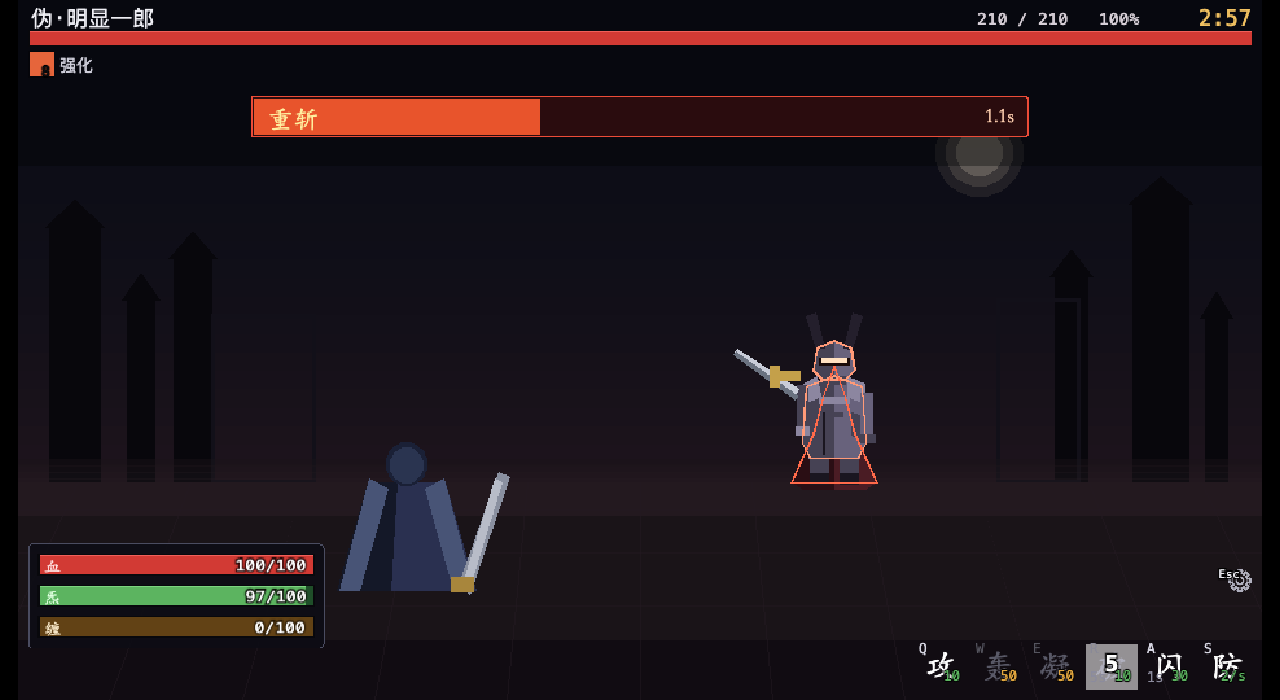
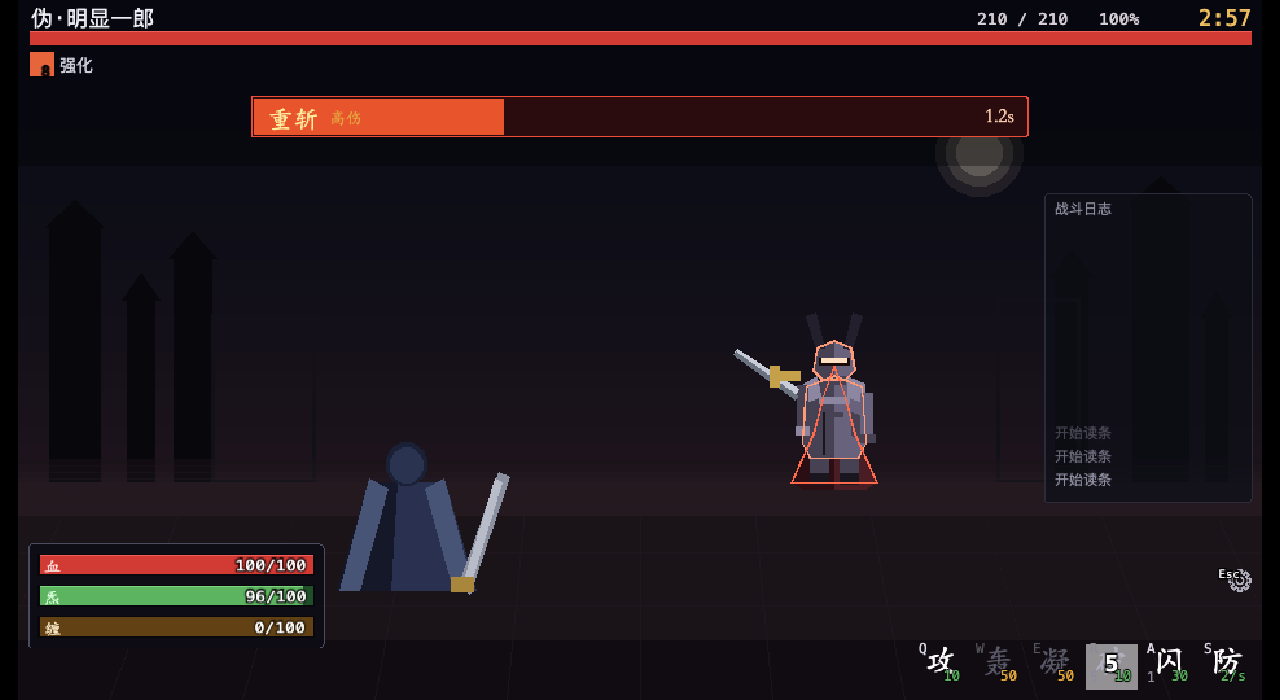
fix(ui): 技能图标恢复光学居中；去掉 CD 的单位 s
三条需求。

【1. 图标不居中 —— 我把光学补偿删错了】
上一轮我删掉了 `GLYPH_BASELINE_NUDGE`，理由是"四角都占满了，
图标必须老实居中"。**那是错的。**

Pixi 的 `Text` 按**整行高**居中，而 CJK 字形重心明显低于行框中心：
26px 楷体行框 28px、字形只有约 20.5px 且偏下。所以"数学居中"
看起来就是**坐得太低**。

实测（26px 楷体、40px 格子）：
  修前 字形 y 498..526（格子 492..532）—— 下边缘几乎贴底
  修后 字形 y 494..522 —— 视觉居中
新名 `GLYPH_NUDGE = 4`，注释里写清了它是算出来再校准的，不是手感。

【2. CD 的单位 s 不显示】
需求："cd 的单位's'，不要显示出来"。
我原先给**固有**冷却加了 `s`，理由是"它是规格说明而不是剩余量，
有单位才不会被误读"。已按需求去掉 —— 位置（左下）与字号（tiny）
已经足够区分它与中间那个实时数字。
现在两个 CD 都只有数字；实测格子里只剩 `2/s`（那是按住技的
"每秒代价"，不是 CD 单位）。

【3. 实时 CD 在图标上层】
核实结果：**它本来就在最上层**（`addRoot` 顺序里 `cd.root` 最后）。
放大截图确认：`破` 冷却时中间的大 `5` 完整可见、压在图标之上。
之前"被盖住一部分"的观感，猜测与图标偏下有关 —— 图标上移后
两者的相对位置也变清楚了。如果仍然觉得被压，告诉我具体哪个格子。

【测试同步】
- "图标在正中" → "**水平**正中；纵向做光学补偿"，并断言补偿量在 (0,6]
- "实时只给数字、固有带单位" → "**两者都只给数字**"

509 测试 + lint + typecheck + build + CDP 端到端全过。

diff --git a/tests/unit/scaling.test.ts b/tests/unit/scaling.test.ts
@@ -6,7 +6,7 @@ import {
   computeCanvasCssSize,
   computeScale,
 } from '../../src/render/scaling';
-import { FONT, LAYOUT, LOGICAL, skillSlotLabels, skillSlotRect } from '../../src/ui/layout';
+import { FONT, GLYPH_NUDGE, LAYOUT, LOGICAL, skillSlotLabels, skillSlotRect } from '../../src/ui/layout';
 
 describe('逻辑分辨率常量', () => {
   it('是 960x540 且为 16:9', () => {
@@ -371,11 +371,21 @@ describe('技能格四角布局', () => {
     expect(pos.cooldown.y).toBeCloseTo(r.y + r.h / 2, 5);
   });
 
-  it('图标在正中', () => {
+  it('图标**水平**正中；纵向做光学补偿', () => {
+    /**
+     * ⚠ 纵向**故意**不是几何中心。
+     *
+     * Pixi 的 `Text` 按整行高居中，而 CJK 字形重心偏低（26px 楷体：
+     * 行框 28px、字形约 20.5px 且偏下），所以几何居中看起来"坐得太低"。
+     * 上移 `GLYPH_NUDGE` 才是视觉居中。
+     */
     const r = rect();
     const pos = skillSlotLabels(r);
     expect(pos.glyph.x).toBeCloseTo(r.x + r.w / 2, 5);
-    expect(pos.glyph.y).toBeCloseTo(r.y + r.h / 2, 5);
+    expect(pos.glyph.y).toBeCloseTo(r.y + r.h / 2 - GLYPH_NUDGE, 5);
+    // 补偿量必须是个小正数：太大就会撞到上边缘的按键提示
+    expect(GLYPH_NUDGE).toBeGreaterThan(0);
+    expect(GLYPH_NUDGE).toBeLessThanOrEqual(6);
   });
 
   it('代价只给数字 + 可选后缀，不拼资源名（角落放不下"30炁"）', async () => {
@@ -385,12 +395,17 @@ describe('技能格四角布局', () => {
     expect(src).toMatch(/s\.cost\.set\(`\$\{Math\.round\(view\.cost\.value\)\}\$\{view\.cost\.suffix \?\? ''\}`\)/);
   });
 
-  it('**实时**冷却只给数字；**固有**冷却带单位', async () => {
+  it('两个 CD 都只给数字 —— 单位一律不显示', async () => {
     const { readFileSync } = await import('node:fs');
     const src = readFileSync(new URL('../../src/render/BattleScene.ts', import.meta.url), 'utf8');
-    // 实时："4"（不给单位，格子太小）
+    // 实时："4"
     expect(src).toMatch(/s\.cd\.set\(view\.cooldownRatio > 0\.001 \? Math\.ceil\(view\.cooldownSec\)\.toString\(\) : ''\)/);
-    // 固有："30s"（给单位，它是规格说明而不是剩余量）
-    expect(src).toMatch(/s\.skillCd\.set\(view\.skillCdSec > 0 \? `\$\{Math\.round\(view\.skillCdSec\)\}s` : ''\)/);
+    /**
+     * 固有：也只有数字（需求："cd 的单位's'，不要显示出来"）。
+     * 我原先给它加了 `s`（理由："它是规格说明，需要单位"）—— 已按需求去掉。
+     */
+    expect(src).toMatch(/s\.skillCd\.set\(view\.skillCdSec > 0 \? String\(Math\.round\(view\.skillCdSec\)\) : ''\)/);
+    // 而且整个技能格渲染里不该再出现 `}s` 这种拼单位
+    expect(src).not.toMatch(/skillCd\.set\([^)]*\}s`/);
   });
 });

diff --git a/src/ui/layout.ts b/src/ui/layout.ts
@@ -304,6 +304,14 @@ export interface SlotLabelRects {
   readonly key: { readonly x: number; readonly y: number };
 }
 
+/**
+ * 技能字纵向的光学补偿（像素）。
+ *
+ * 见 `skillSlotLabels` 里对 `glyph` 的说明 —— 这个数不是调到手感对为止，
+ * 是由"行框高 28 / 字形高 20.5、重心偏下"算出来再实测校准的。
+ */
+export const GLYPH_NUDGE = 4;
+
 export function skillSlotLabels(rect: {
   readonly x: number;
   readonly y: number;
@@ -312,13 +320,20 @@ export function skillSlotLabels(rect: {
 }): SlotLabelRects {
   return {
     /**
-     * 技能字（图标）：**正中**。
+     * 技能字（图标）：水平正中 + **光学居中**。
      *
-     * 需求把周围四角分配给了别的信息（左上按键、右上代价、左下冷却），
-     * 所以图标不能再做纵向偏移 —— 它必须老老实实居中，
-     * 否则会和某个角撞上。
+     * ⚠ 纵向必须减去 `GLYPH_NUDGE`。
+     *
+     * 我一度把它删了（理由："四角都占满了，图标必须老实居中"）——
+     * 那是错的。Pixi 的 `Text` 是按**整行高**居中的，而 CJK 字形的
+     * 重心明显低于行框中心：26px 的楷体，行框 28px 而字形只有约 20.5px，
+     * 且偏下。所以"数学居中"看起来就是**坐得太低**。
+     *
+     * 实测（26px 楷体、40px 格子）：按行框居中时字形落在
+     * y 498..526（格子 492..532），下边缘几乎贴底；
+     * 上移 `GLYPH_NUDGE` 之后才是视觉居中。
      */
-    glyph: { x: rect.x + rect.w / 2, y: rect.y + rect.h / 2 },
+    glyph: { x: rect.x + rect.w / 2, y: rect.y + rect.h / 2 - GLYPH_NUDGE },
     /**
      * **实时**冷却秒数：格子**正中**。
      *

diff --git a/src/render/BattleScene.ts b/src/render/BattleScene.ts
@@ -524,8 +524,15 @@ class SkillBarView {
        */
       // 实时剩余：只给数字（格子太小，`4s` 会挤掉图标）
       s.cd.set(view.cooldownRatio > 0.001 ? Math.ceil(view.cooldownSec).toString() : '');
-      // 固有冷却：带单位，"这个技能多长 CD"的规格说明
-      s.skillCd.set(view.skillCdSec > 0 ? `${Math.round(view.skillCdSec)}s` : '');
+      /**
+       * 固有冷却：**只给数字**（需求："cd的单位's'，不要显示出来"）。
+       *
+       * 我原先给它加了 `s`，理由是"它是规格说明而不是剩余量，有单位
+       * 才不会被误读"。但用户要求去掉 —— 而且格子已经够挤了，
+       * 少一个字母确实更干净。位置（左下）与字号（tiny）已经足够
+       * 区分"这是固有 CD"和中间那个实时数字。
+       */
+      s.skillCd.set(view.skillCdSec > 0 ? String(Math.round(view.skillCdSec)) : '');
       /**
        * 资源代价：数字 + **资源色**。
        *
